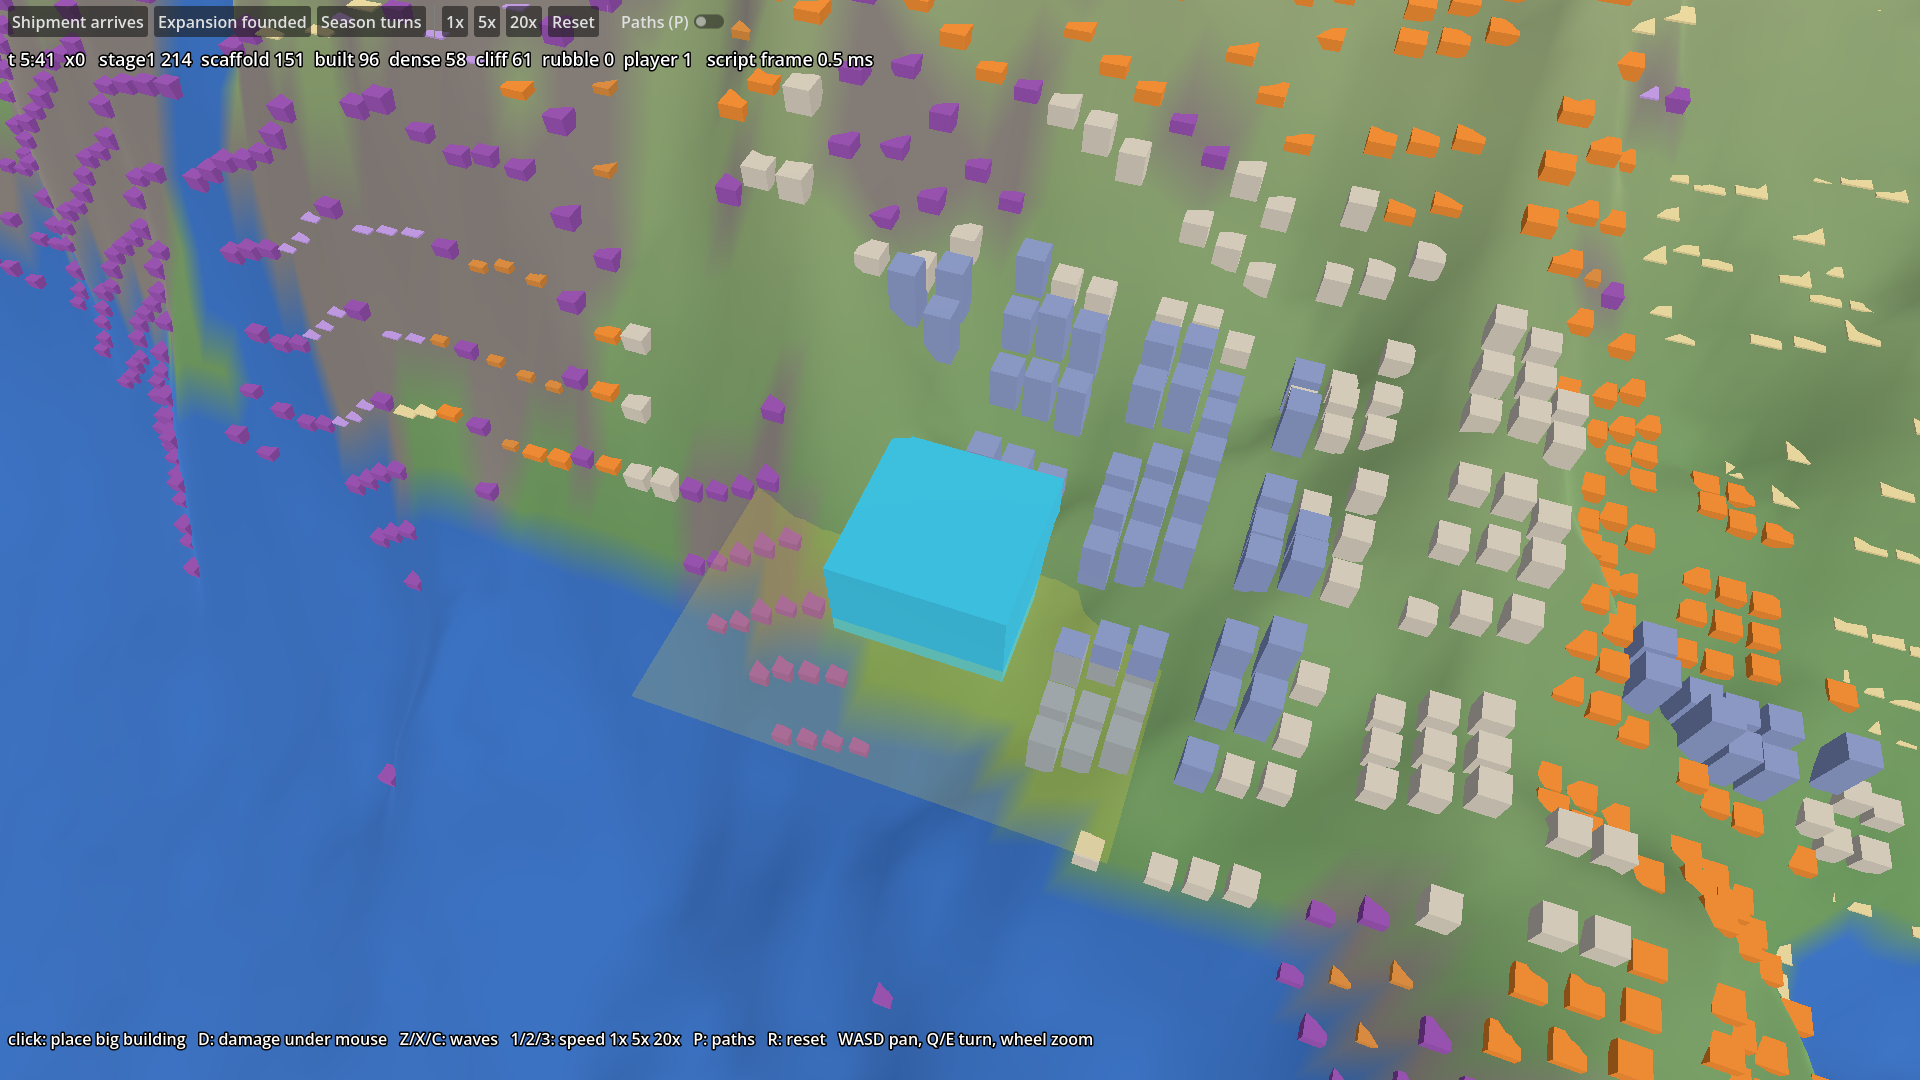
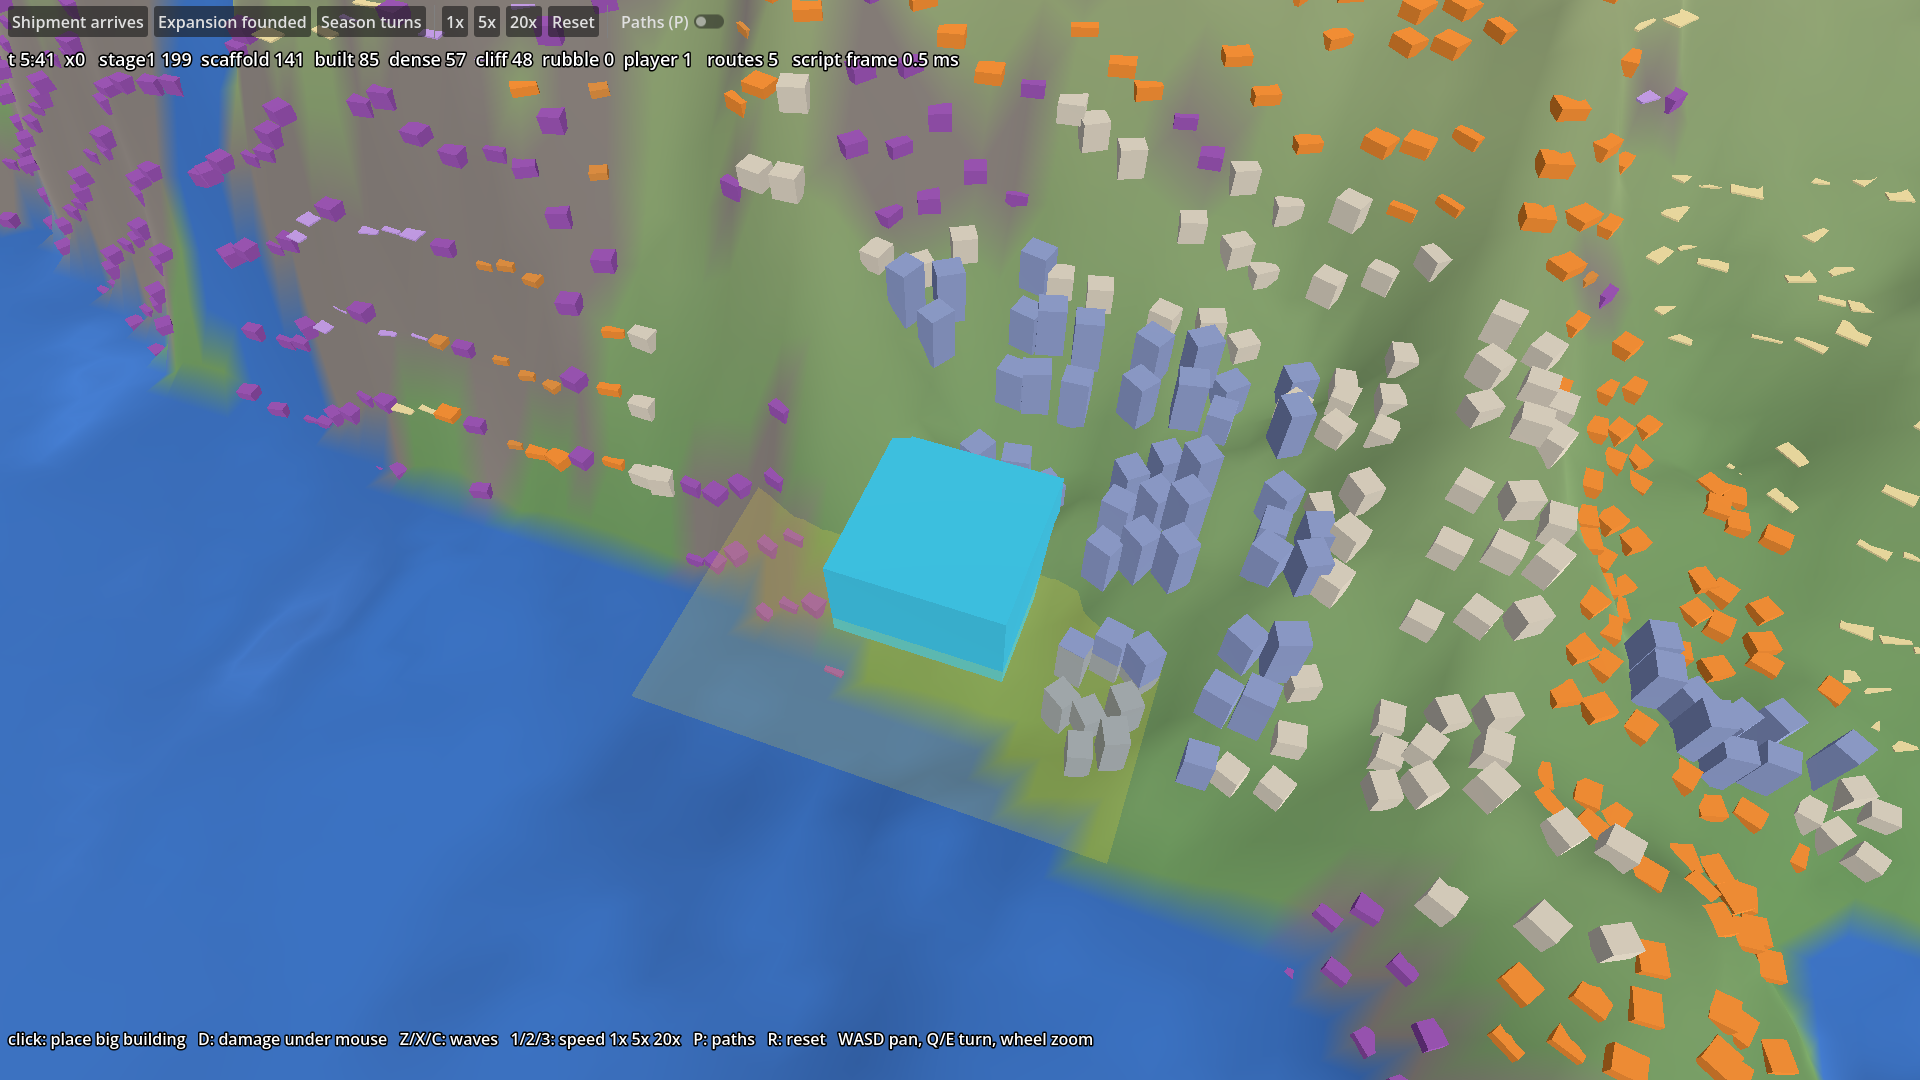
settlement mockup: no lots on water, jittered contour-aligned lots, full path ribbons
Claude-Session: https://claude.ai/code/session_016v5DweV7GAT3YnJyPmdxVj

diff --git a/docs/northstar/research/settlement_mockup/README.md b/docs/northstar/research/settlement_mockup/README.md
@@ -15,12 +15,12 @@ Spec: `docs/northstar/plans/2026-10-03-settlement-mockup-pass1-spec.md`. Prototy
 - `qa/pass1.json`: the scripted pass that made the screenshots.
 
 1. Growing density. Potential P starts at 1.0 on the core and spreads one ring per growth tick (3 s sim). Each hop multiplies by a factor: base decay, less for climbing (elevation difference between cells), less for steepness, less far from water, and only 0.85 across water. So it hugs coasts, follows contour lines, no rings. Density D eases toward P x maturity (0.6 rising to 1.0 over 300 s), never falls.
-2. Lots and stages. One lot per 100 wu cell; every 4th row and column is a lane, left empty. A lot rises one stage at a time (0.9 s grow animation, 0.4 s in a wave): marked ground, scaffold (orange), built (grey), dense (tall blue-grey).
+2. Lots and stages. Each lot is jittered up to 0.22 cell and turned by a per-cell hash; where slope is above 0.06 (candidate) it is turned along the contour, with 0.25 rad of jitter, so rows bend with the land. One lot per 100 wu cell; every 4th row and column is a lane, left empty. A lot rises one stage at a time (0.9 s grow animation, 0.4 s in a wave): marked ground, scaffold (orange), built (grey), dense (tall blue-grey).
 3. Waves. Three buttons. Shipment: one street (24 cells long, 2 lots deep) goes up in a staggered sweep. Expansion: one street plus a new density seed at its far end. Season: three streets. The differences are my guess, the labels are what to judge.
 4. Placement. Click puts a 5x5 cell (500 wu) building. Lots under it are cleared, lots in the 2-cell ring around are reset and refill over about 1 to 8 s, and the building seeds density so the city bends around it.
-5. Difficult ground. Slope above 0.22 gets a cliff dwelling (purple, small, capped at 3 stages), never nothing. Water cells get nothing.
+5. Difficult ground. No lot on water or within 1 cell of water (candidate shore margin); the sea surface is drawn flat at sea level, so the steep seabed no longer reads as ground. Slope above 0.22 gets a cliff dwelling (purple, small, capped at 3 stages), never nothing. Water cells get nothing.
 6. Damage. D on the hovered area (13x13 cell yellow marker) drops lots one stage per press down to rubble (dark brown), rebuild starts 10 s later.
-7. Paths. Method: one Dijkstra from the core over a cost grid (1 + 6 x slope, +25 per water cell, player buildings impassable), the cheapest route to each of 8 compass sectors on the window edge, thickened by 1 cell each side (300 wu wide, over the 200 wu need). Those cells are never built on; a placement re-runs it and lots on the new route are cleared. Routes crossing more than 6 water cells are dropped (so on this map only 5 of 8 sectors get a path; the rest are sea). Toggle P. State reports `path_connected` by a flood fill from the core.
+7. Paths. Method: one Dijkstra from the core over a cost grid (1 + 6 x slope, +25 per water cell, player buildings impassable), the cheapest route to each of 8 compass sectors on the window edge, thickened by 1 cell each side (300 wu wide, over the 200 wu need). Drawn as one ribbon per route from the core to the window edge, raised to the highest ground in the 3x3 around each point so it sits on the land. Those cells are never built on; a placement re-runs it and lots on the new route are cleared. Routes crossing more than 6 water cells are dropped (so on this map only 5 of 8 sectors get a path; the rest are sea). Toggle P; the HUD prints the route count (5). State reports `path_connected` by a flood fill from the core.
 8. Time. 1x, 5x, 20x, Reset (buttons and keys 1/2/3, R).
 
 ## Keys
@@ -46,12 +46,13 @@ Click place building, D damage under mouse, Z/X/C waves (shipment, expansion, se
 ## Measured (Godot 4.6.3, xvfb, llvmpipe software GL, 1920x1080; RTX 3060 not used by xvfb, so render cost is unrepresentative)
 
 - Lots standing: 0 at start, 271 at 1 min, 595 at 5 min, 581 after placing and 59 rubble after damage. Instances allocated: 14,641 (idle ones scaled to zero).
-- Script cost per frame (sim update, growth, flush, hover pick): 0.1 to 0.5 ms normally, 1.3 ms at 20x. Growth tick 2 to 7 ms. Path recompute about 66 to 85 ms (on placement only). Window frame time under llvmpipe including the screenshot grab: 100 to 1000 ms, dominated by software rendering of the terrain and 14k instances; not a GPU number.
+- Script cost per frame (sim update, growth, flush, hover pick): 0.1 to 0.5 ms normally, 1.2 ms at 20x. Growth tick 2 to 6 ms. Path recompute about 65 to 70 ms (on placement only). Window frame time under llvmpipe including the screenshot grab: 100 to 1000 ms, dominated by software rendering of the terrain and 14k instances; not a GPU number.
 - `qa/pass1.json` runs clean: `errors.txt` count 0.
 
 ## Not built / limits
 
-- Lanes are an axis-aligned grid: contour-following comes from the density shape and the lot cells, not from curved streets.
+- Lanes are still an axis-aligned grid of empty cells; jitter and contour yaw hide it but streets are not curved.
+- Purple dwellings still cluster on dry steep land at the shore; they are on land cells, not sea.
 - No real GPU frame time (needs a desktop run).
 - Rubble kept the same rise path; no distinct "burnt" look.
 - The window is 12100 by 12100 wu around the core, not the whole map; the core is on a coast so about 43 percent of it is sea.
